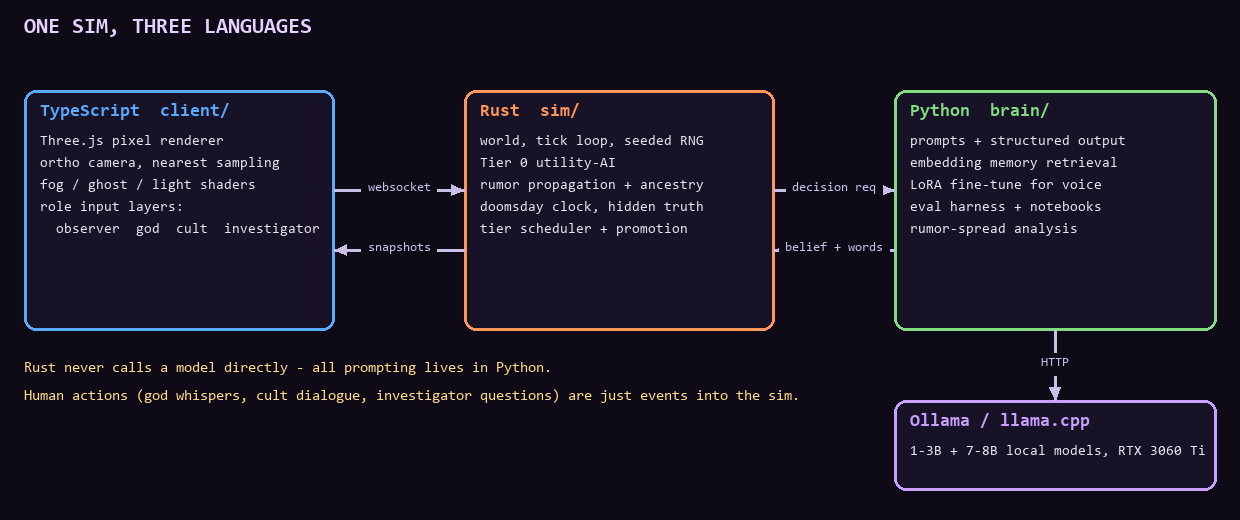
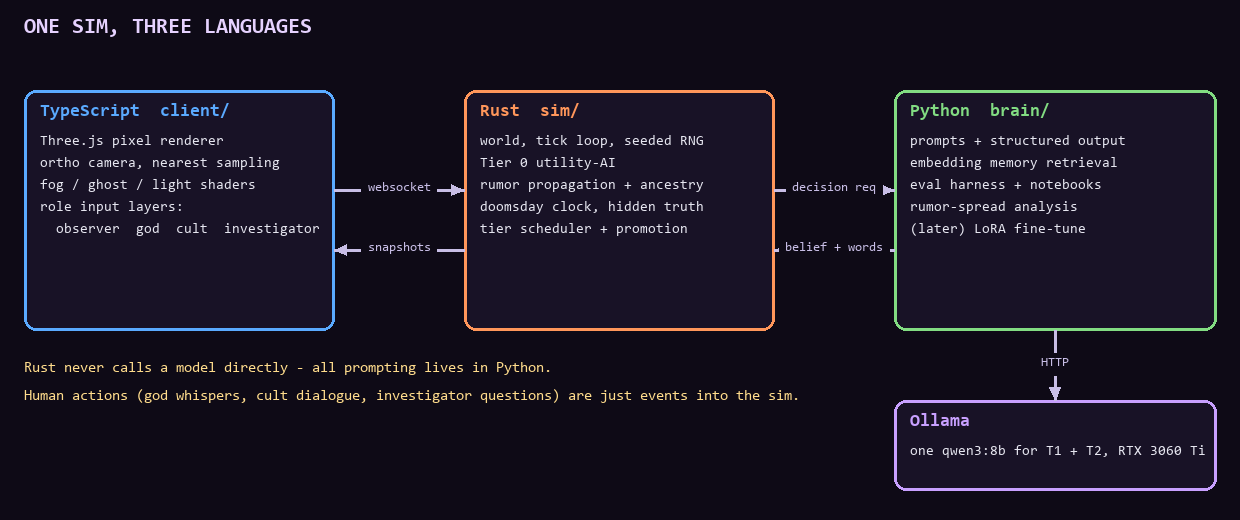
Redraw agent tiers concept art with town vignettes and the shared-model setup
Hue-shifted shading, self-coloured outlines, and lit scenes per tier. Architecture and HUD legends drop the old 1-3B/7-8B split.

Changed region(s): [[0.7355, 0.3385, 0.8887, 0.4615], [0.7355, 0.8615, 0.8887, 0.8923], [0.7968, 0.8, 0.8887, 0.8308]]

diff --git a/tools/render_concept.py b/tools/render_concept.py
@@ -366,7 +366,7 @@ def hud(img, days_txt, role, doom_ratio, rumor_lines=None, tier_legend=True, tit
     if tier_legend:
         panel(d, (w - 220, h - 100, w - 14, h - 14))
         d.text((w - 208, h - 94), "AGENT TIERS", font=fs, fill=(200, 190, 220))
-        for i, (t, label) in enumerate(((2, "T2 key figure  7-8B"), (1, "T1 townsfolk  1-3B"), (0, "T0 crowd   rules"))):
+        for i, (t, label) in enumerate(((2, "T2 key figure memory"), (1, "T1 townsfolk  events"), (0, "T0 crowd      rules"))):
             y = h - 74 + i * 20
             d.ellipse([w - 206, y + 2, w - 194, y + 12], fill=TIER_COL[t])
             d.text((w - 186, y), label, font=fs, fill=(230, 230, 240))
@@ -497,40 +497,203 @@ def sprite_big(drawer, scale=10, w=14, h=18):
     return im.resize((w * scale, h * scale), Image.NEAREST)
 
 
+# ---------- hue-shifted shading (shadows cooler, highlights warmer) ----------
+def shade(c, k=0.7):
+    return (int(c[0] * k * 0.9), int(c[1] * k * 0.95), min(255, int(c[2] * k * 1.1 + 10)))
+
+
+def lit(c, k=1.2):
+    return (min(255, int(c[0] * k + 14)), min(255, int(c[1] * k + 8)), min(255, int(c[2] * k)))
+
+
+def person(d, cx, fy, robe, hair=(74, 50, 36), skin=(232, 190, 150), hood=False, ring=None):
+    """17px-tall villager: self-coloured outline, light from the upper left."""
+    d.ellipse([cx - 5, fy - 1, cx + 5, fy + 2], fill=(40, 36, 46))  # drop shadow
+    if ring:
+        d.ellipse([cx - 6, fy - 2, cx + 6, fy + 2], outline=ring)
+    ol = shade(robe, 0.4)
+    rect(d, cx - 4, fy - 10, cx + 4, fy - 1, robe, ol)  # robe
+    d.line([(cx - 3, fy - 9), (cx - 3, fy - 2)], fill=lit(robe))  # lit left edge
+    rect(d, cx + 2, fy - 9, cx + 3, fy - 2, shade(robe, 0.75))  # shaded right side
+    d.line([(cx - 3, fy - 6), (cx + 3, fy - 6)], fill=(96, 62, 36))  # belt
+    d.point((cx - 5, fy - 4), fill=skin)  # hands
+    d.point((cx + 5, fy - 4), fill=shade(skin, 0.8))
+    rect(d, cx - 2, fy, cx - 1, fy, (50, 36, 30))  # feet
+    rect(d, cx + 1, fy, cx + 2, fy, (50, 36, 30))
+    if hood:
+        rect(d, cx - 3, fy - 17, cx + 3, fy - 10, robe, ol)
+        d.line([(cx - 2, fy - 16), (cx - 2, fy - 12)], fill=lit(robe))
+        rect(d, cx - 1, fy - 14, cx + 1, fy - 11, (26, 18, 30))  # face in shadow
+        d.point((cx, fy - 13), fill=(220, 60, 60))
+    else:
+        rect(d, cx - 3, fy - 16, cx + 3, fy - 10, skin, shade(skin, 0.45))
+        rect(d, cx - 3, fy - 17, cx + 3, fy - 15, hair, shade(hair, 0.5))
+        d.point((cx - 1, fy - 13), fill=(30, 22, 30))
+        d.point((cx + 1, fy - 13), fill=(30, 22, 30))
+        d.point((cx + 2, fy - 11), fill=shade(skin, 0.85))
+
+
+def cobble(d, w, h, rng, y0=0, stones=((128, 120, 124), (118, 112, 120), (136, 128, 128))):
+    rect(d, 0, y0, w, h, (70, 64, 74))
+    for y in range(y0, h, 5):
+        off = 3 if (y // 5) % 2 else 0
+        for x in range(-off, w, 7):
+            c = rng.choice(stones)
+            rect(d, x, y, x + 5, y + 3, c)
+            d.line([(x, y), (x + 5, y)], fill=lit(c, 1.1))
+            d.line([(x, y + 3), (x + 5, y + 3)], fill=shade(c, 0.8))
+
+
+def stall(d, x, y):
+    for px in (x, x + 23):
+        rect(d, px, y + 3, px + 1, y + 18, (96, 62, 36))
+    for i in range(0, 24, 4):
+        c = (176, 52, 48) if (i // 4) % 2 == 0 else (232, 214, 180)
+        rect(d, x + i, y, x + i + 3, y + 5, c)
+        rect(d, x + i + 1, y + 6, x + i + 2, y + 6, c)  # scalloped edge
+    d.line([(x, y + 7), (x + 24, y + 7)], fill=(60, 50, 60))  # awning shadow
+    rect(d, x - 1, y + 13, x + 25, y + 17, (128, 84, 48), (70, 44, 28))
+    for bx in (x + 3, x + 9, x + 15):
+        d.ellipse([bx, y + 10, bx + 5, y + 13], fill=(200, 146, 74), outline=(120, 76, 40))
+
+
+def lantern(d, x, y):
+    rect(d, x, y - 14, x + 1, y, (50, 40, 46))
+    rect(d, x - 1, y - 19, x + 2, y - 15, (255, 210, 110), (60, 44, 40))
+    return (x, y - 17)
+
+
+def glow_pass(base, pts, tint):
+    base = ImageChops.multiply(base, Image.new("RGB", base.size, tint))
+    g = Image.new("RGB", base.size, (0, 0, 0))
+    gd = ImageDraw.Draw(g)
+    for (x, y), r, col in pts:
+        gd.ellipse([x - r, y - r, x + r, y + r], fill=col)
+    return ImageChops.screen(base, g.filter(ImageFilter.GaussianBlur(4)))
+
+
+def vignette_t0(rng):
+    im = Image.new("RGB", (120, 70))
+    d = ImageDraw.Draw(im)
+    cobble(d, 120, 70, rng)
+    stall(d, 8, 8)
+    crowd = [(14, 38), (40, 30), (58, 46), (78, 34), (96, 52), (30, 60), (68, 64), (104, 28), (88, 66)]
+    people = sorted((y, x, i) for i, (x, y) in enumerate(crowd))
+    for y, x, i in people:
+        cult = i == 4
+        person(d, x, y, (96, 40, 110) if cult else ROBES[i % 6], hood=cult, ring=TIER_COL[0])
+    return glow_pass(im, [], (235, 228, 240))
+
+
+def vignette_t1(rng):
+    im = Image.new("RGB", (120, 70))
+    d = ImageDraw.Draw(im)
+    cobble(d, 120, 70, rng)
+    rect(d, 0, 0, 120, 14, (60, 92, 54))  # verge
+    for _ in range(60):
+        d.point((rng.randrange(120), rng.randrange(14)), fill=rng.choice([(74, 112, 62), (50, 80, 46)]))
+    well(d, 104, 32)
+    lp = lantern(d, 10, 44)
+    person(d, 24, 66, (140, 140, 150), ring=TIER_COL[0])
+    person(d, 46, 58, (160, 130, 70), hair=(150, 90, 40), ring=TIER_COL[1])
+    person(d, 74, 60, (80, 110, 150), ring=TIER_COL[1])
+    return glow_pass(im, [(lp, 10, (150, 110, 50))], (190, 186, 222))
+
+
+def vignette_t2(rng):
+    im = Image.new("RGBA", (120, 70))
+    d = ImageDraw.Draw(im)
+    cobble(d, 120, 70, rng, stones=((104, 98, 110), (96, 92, 104), (112, 104, 114)))
+    for y in range(0, 42, 4):  # church wall, brick bond
+        off = 4 if (y // 4) % 2 else 0
+        for x in range(-off, 120, 8):
+            c = rng.choice([(138, 136, 150), (128, 126, 142), (146, 142, 154)])
+            rect(d, x, y, x + 7, y + 3, c, shade(c, 0.7))
+    rect(d, 0, 42, 120, 45, (90, 86, 100), (60, 56, 70))  # step
+    d.pieslice([16, 16, 36, 36], 180, 360, fill=(84, 52, 30), outline=OUTLINE)  # arched door
+    rect(d, 16, 26, 36, 42, (84, 52, 30), OUTLINE)
+    d.line([(26, 18), (26, 42)], fill=(60, 36, 22))
+    d.point((30, 32), fill=(220, 190, 90))
+    d.pieslice([72, 4, 88, 20], 180, 360, fill=(30, 24, 44), outline=OUTLINE)  # stained glass
+    rect(d, 72, 12, 88, 30, (30, 24, 44), OUTLINE)
+    for i, c in enumerate([(150, 70, 200), (220, 70, 70), (240, 190, 80), (90, 120, 220)]):
+        rect(d, 74 + (i % 2) * 7, 13 + (i // 2) * 8, 79 + (i % 2) * 7, 19 + (i // 2) * 8, c)
+    cands = [(48, 56), (70, 56)]
+    for cx, cy in cands:
+        rect(d, cx, cy - 6, cx + 1, cy, (230, 224, 200))
+        d.point((cx, cy - 7), fill=(255, 220, 120))
+    person(d, 58, 62, (150, 24, 40), hood=True, ring=TIER_COL[2])
+    person(d, 96, 64, (96, 40, 110), hood=True, ring=TIER_COL[0])
+    layer = Image.new("RGBA", im.size, (0, 0, 0, 0))
+    ghost(layer, 104, 30, None, alpha=110)
+    im = Image.alpha_composite(im, layer).convert("RGB")
+    pts = [((c[0], c[1] - 7), 8, (170, 120, 50)) for c in cands] + [((80, 18), 12, (90, 50, 120))]
+    return glow_pass(im, pts, (160, 150, 196))
+
+
 def make_tiers():
-    W_, H_ = 1240, 560
+    W_, H_ = 1240, 740
+    s = 3
     im = Image.new("RGB", (W_, H_), (14, 10, 22))
     d = ImageDraw.Draw(im)
     d.text((24, 16), "AGENT TIERS - cheap crowd, expensive stars", font=font(22, True), fill=(230, 210, 255))
+    d.text((24, 48), "One model on one GPU. Tiers differ in how often an agent thinks and how much it remembers.",
+           font=font(14), fill=(170, 160, 200))
+    rng = random.Random(11)
     cols = [
-        (0, "TIER 0  CROWD", "30-50 agents", "no LLM", ["Rust utility-AI state machines", "beliefs are numbers", "canned barks", "~2 ms / tick for everyone"], (150, 150, 150)),
-        (1, "TIER 1  TOWNSFOLK", "10-15 agents", "1-3B local model", ["event-driven only", "hear a rumor -> believe? repeat?", "rewrites wording per hop", "~1 s / decision"], (90, 170, 255)),
-        (2, "TIER 2  KEY FIGURES", "3-5 agents", "7-8B local model", ["memory retrieval + reflection", "prophet, elder, medium, ghost", "plans, doubts, panics", "~2-3 s / decision"], (255, 200, 60)),
+        (0, "TIER 0  CROWD", "30-50 agents  ·  no model", vignette_t0(rng),
+         ["Rust utility-AI, no model calls", "beliefs are just numbers", "repeats canned barks", "whole crowd in ~2 ms / tick"]),
+        (1, "TIER 1  TOWNSFOLK", "10-15 agents  ·  short prompts", vignette_t1(rng),
+         ["thinks only when something happens", "hears a rumor: believe? repeat?", "rewords the claim in its own voice", "a few calls per in-game day"]),
+        (2, "TIER 2  KEY FIGURES", "3-5 agents  ·  full memory", vignette_t2(rng),
+         ["memory retrieval + reflection", "prophet, elder, medium", "plans, doubts, panics", "first in line for the GPU"]),
     ]
-    cw = 390
-    for i, (t, name, count, model, bullets, c) in enumerate(cols):
+    cw, top = 390, 84
+    fb = font(12)
+    for i, (t, name, sub, vig, bullets) in enumerate(cols):
+        c = TIER_COL[t]
         x = 24 + i * (cw + 20)
-        d.rounded_rectangle([x, 70, x + cw, 520], 12, fill=(24, 18, 38), outline=c, width=3)
-        d.text((x + 18, 84), name, font=font(20, True), fill=c)
-        d.text((x + 18, 114), f"{count}   {model}", font=font(14), fill=(220, 220, 235))
-        # sprite
-        def draw(dd, t=t):
-            robe = [(140, 140, 150), (80, 110, 150), (150, 24, 40)][t]
-            agent(dd, 7, 15, robe, hood=(t == 2), tier=t)
-        spr = sprite_big(draw, 10)
-        im.paste(spr, (x + cw - 160, 130), spr)
-        # crowd count dots for tier 0 / 1
-        for j in range(12 if t == 0 else (6 if t == 1 else 3)):
-            def dr(dd, j=j, t=t):
-                agent(dd, 7, 15, ROBES[j % 6], tier=t)
-            s2 = sprite_big(dr, 3)
-            im.paste(s2, (x + 18 + j * 30, 340), s2)
+        d.rounded_rectangle([x, top, x + cw, top + 500], 12, fill=(24, 18, 38), outline=c, width=3)
+        d.text((x + 18, top + 14), name, font=font(20, True), fill=c)
+        d.text((x + 18, top + 44), sub, font=font(14), fill=(220, 220, 235))
+        v = upscale(vig, s)
+        vd = ImageDraw.Draw(v)
+        if t == 0:
+            bubble(vd, 10, 70, "Fresh bread!", fb)
+            bubble(vd, 236, 118, "Repent!", fb)
+        elif t == 1:
+            bubble(vd, 112, 118, "They say the prophet slips out the east gate at midnight...", fb, 150)
+            bubble(vd, 210, 140, "believe? repeat?", fb, 120)
+        else:
+            bubble(vd, 120, 136, "I must play my part, even if the script is written in blood.", fb, 220)
+        im.paste(v, (x + 15, top + 74))
+        d.rectangle([x + 14, top + 73, x + 15 + v.width, top + 74 + v.height], outline=shade(c, 0.8), width=2)
         for j, b in enumerate(bullets):
-            d.text((x + 18, 170 + j * 30), "- " + b, font=font(15), fill=(235, 235, 245))
-    d.text((24, 530), "dynamic promotion/demotion: an agent central to a rumor chain moves up a tier, and drops back when it quiets down", font=font(14), fill=(255, 220, 140))
-    # promote arrows
-    for ax in (24 + 390 + 4, 24 + 2 * 410 - 12):
-        d.polygon([(ax, 300), (ax + 22, 300), (ax + 22, 290), (ax + 40, 310), (ax + 22, 330), (ax + 22, 320), (ax, 320)], fill=(255, 220, 140))
+            d.text((x + 18, top + 304 + j * 28), "- " + b, font=font(15), fill=(235, 235, 245))
+        if t == 2:
+            d.text((x + 18, top + 420), "speech bubble: real qwen3:8b output", font=font(12), fill=(150, 140, 180))
+            d.text((x + 18, top + 436), "from the Phase 1 smoke test", font=font(12), fill=(150, 140, 180))
+    # promotion arrows between cards
+    for ax in (24 + cw + 1, 24 + 2 * cw + 21):
+        d.polygon([(ax, 230), (ax + 8, 230), (ax + 8, 220), (ax + 18, 240), (ax + 8, 260), (ax + 8, 250), (ax, 250)],
+                  fill=(255, 220, 140))
+    # what drives each column
+    by = top + 530
+    d.rounded_rectangle([24, by, 24 + cw, by + 70], 10, fill=(24, 18, 38), outline=(110, 110, 120), width=2)
+    d.text((40, by + 12), "RUST SIM", font=font(15, True), fill=(255, 150, 90))
+    d.text((40, by + 38), "every tick, deterministic, no GPU", font=font(13), fill=(220, 220, 235))
+    bx0, bx1 = 24 + cw + 20, 24 + 3 * cw + 40
+    for cx in (bx0 + cw // 2, bx0 + cw + 20 + cw // 2):
+        d.line([(cx, top + 500), (cx, by)], fill=(200, 160, 255), width=3)
+    d.rounded_rectangle([bx0, by, bx1, by + 70], 10, fill=(30, 20, 48), outline=(200, 160, 255), width=2)
+    d.text((bx0 + 16, by + 12), "ONE SHARED BRAIN   qwen3:8b via Ollama", font=font(15, True), fill=(200, 160, 255))
+    d.text((bx0 + 16, by + 38), "~4.7 s per decision  ·  ~750 decisions / hour  ·  VRAM", font=font(13), fill=(220, 220, 235))
+    vx = bx0 + 16 + int(d.textlength("~4.7 s per decision  ·  ~750 decisions / hour  ·  VRAM ", font=font(13)))
+    d.rectangle([vx, by + 40, vx + 160, by + 52], outline=(200, 160, 255))
+    d.rectangle([vx + 2, by + 42, vx + 2 + int(156 * 6.4 / 8), by + 50], fill=(170, 120, 230))
+    d.text((vx + 170, by + 38), "6.4 / 8 GB", font=font(13), fill=(220, 220, 235))
+    d.text((24, H_ - 30), "Promotion / demotion: an agent at the centre of a rumor chain moves up a tier, then drops back when it quiets down.",
+           font=font(14), fill=(255, 220, 140))
     save(im, "agent-tiers.png")
 
 
@@ -561,8 +724,8 @@ def make_architecture():
     d.text((24, 16), "ONE SIM, THREE LANGUAGES", font=font(22, True), fill=(230, 210, 255))
     box(d, (24, 90, 334, 330), "TypeScript  client/", ["Three.js pixel renderer", "ortho camera, nearest sampling", "fog / ghost / light shaders", "role input layers:", "  observer  god  cult  investigator"], (90, 170, 255))
     box(d, (464, 90, 774, 330), "Rust  sim/", ["world, tick loop, seeded RNG", "Tier 0 utility-AI", "rumor propagation + ancestry", "doomsday clock, hidden truth", "tier scheduler + promotion"], (255, 150, 90))
-    box(d, (894, 90, 1216, 330), "Python  brain/", ["prompts + structured output", "embedding memory retrieval", "LoRA fine-tune for voice", "eval harness + notebooks", "rumor-spread analysis"], (130, 220, 130))
-    box(d, (894, 400, 1216, 490), "Ollama / llama.cpp", ["1-3B + 7-8B local models, RTX 3060 Ti"], (200, 160, 255))
+    box(d, (894, 90, 1216, 330), "Python  brain/", ["prompts + structured output", "embedding memory retrieval", "eval harness + notebooks", "rumor-spread analysis", "(later) LoRA fine-tune"], (130, 220, 130))
+    box(d, (894, 400, 1216, 490), "Ollama", ["one qwen3:8b for T1 + T2, RTX 3060 Ti"], (200, 160, 255))
     arrow(d, (334, 190), (464, 190), "websocket")
     arrow(d, (464, 250), (334, 250), "snapshots")
     arrow(d, (774, 190), (894, 190), "decision req")
